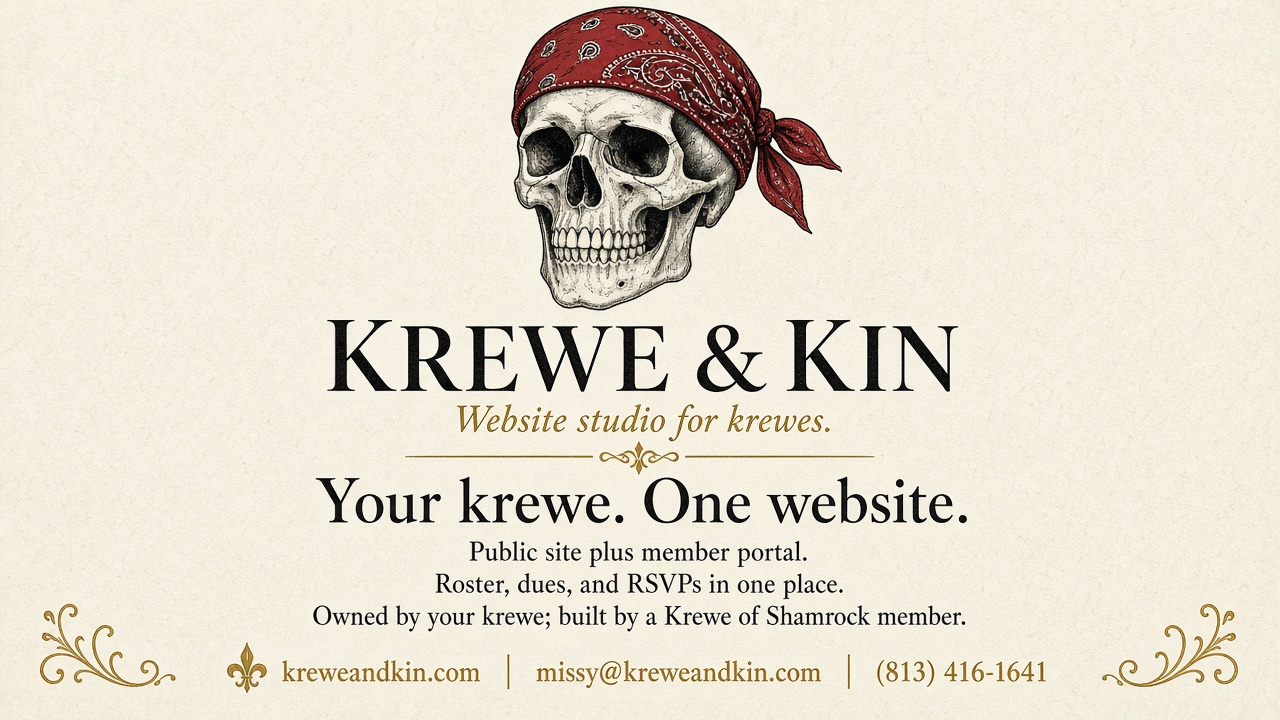
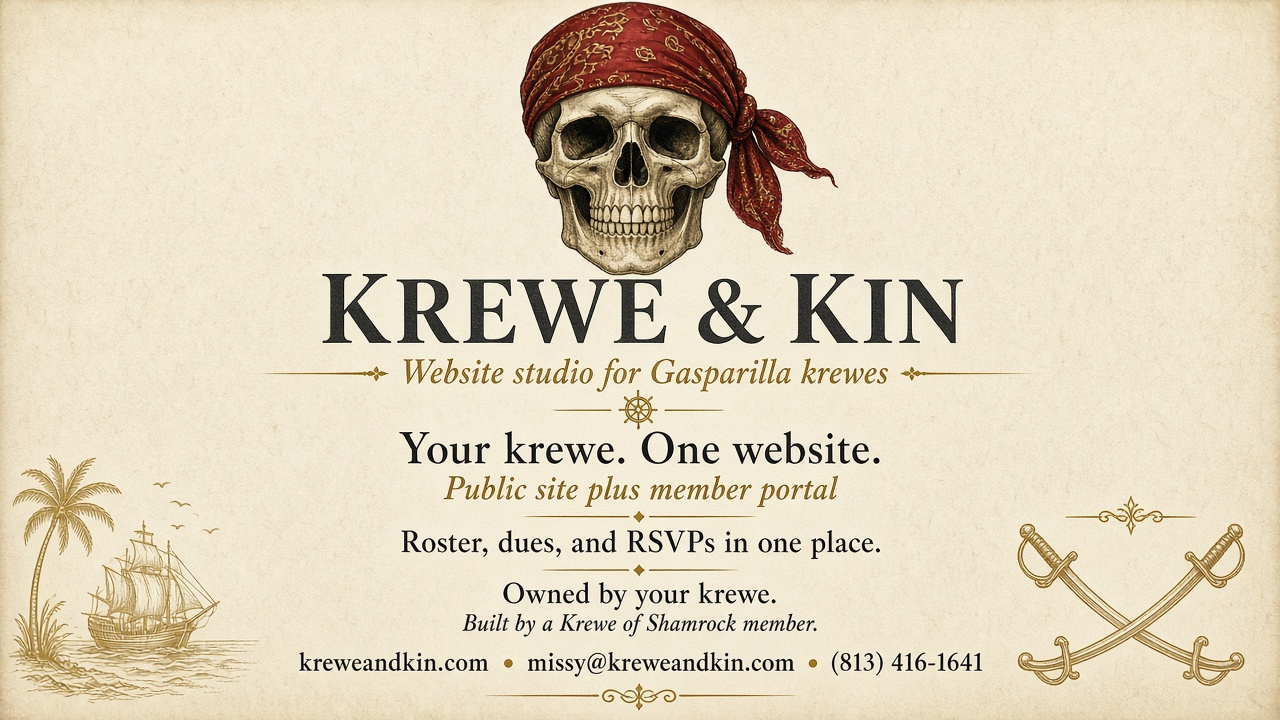
Lock in the approved Gasparilla studio flyer.
The founding listing now shows the red-bandana skull flyer with the ship and crossed swords beside the card.

diff --git a/src/lib/directory.ts b/src/lib/directory.ts
@@ -69,7 +69,8 @@ export const DIRECTORY_CATEGORIES: DirectoryCategory[] = [
         image: "/directory/krewe-and-kin.jpg",
         imageAlt: "Krewe & Kin logo",
         flyerImage: "/directory/krewe-kin-studio-flyer.jpg",
-        flyerAlt: "Krewe & Kin marketing flyer: Your krewe. One website.",
+        flyerAlt:
+          "Krewe & Kin marketing flyer: Your krewe. One website. Website studio for Gasparilla krewes.",
         flyerHref: "/directory/krewe-kin-studio-flyer.jpg",
         flyerLabel: "Open flyer",
         meta: [

diff --git a/README.md b/README.md
@@ -69,7 +69,7 @@ Business owners request a listing at `/directory/request` and upload a card logo
 - Locally, with the token unset, uploads are saved under `.data/directory-submissions/` (gitignored).
 - New requests stay **pending**. They do not appear on `/directory` until an admin approves them at `/directory/review` (sign in at `/clients` as an admin first).
 - Approved cards show the uploaded logo. An image flyer sits beside that listing on desktop and stacks under it on a phone. A PDF flyer is linked as “View flyer”. Listings with no image keep the empty placeholder.
-- The founding Krewe & Kin card uses the site logo and `public/directory/krewe-kin-studio-flyer.jpg` beside the listing.
+- The founding Krewe & Kin card uses the site logo and the Gasparilla studio flyer at `public/directory/krewe-kin-studio-flyer.jpg` beside the listing.
 
 ## Key paths
 
